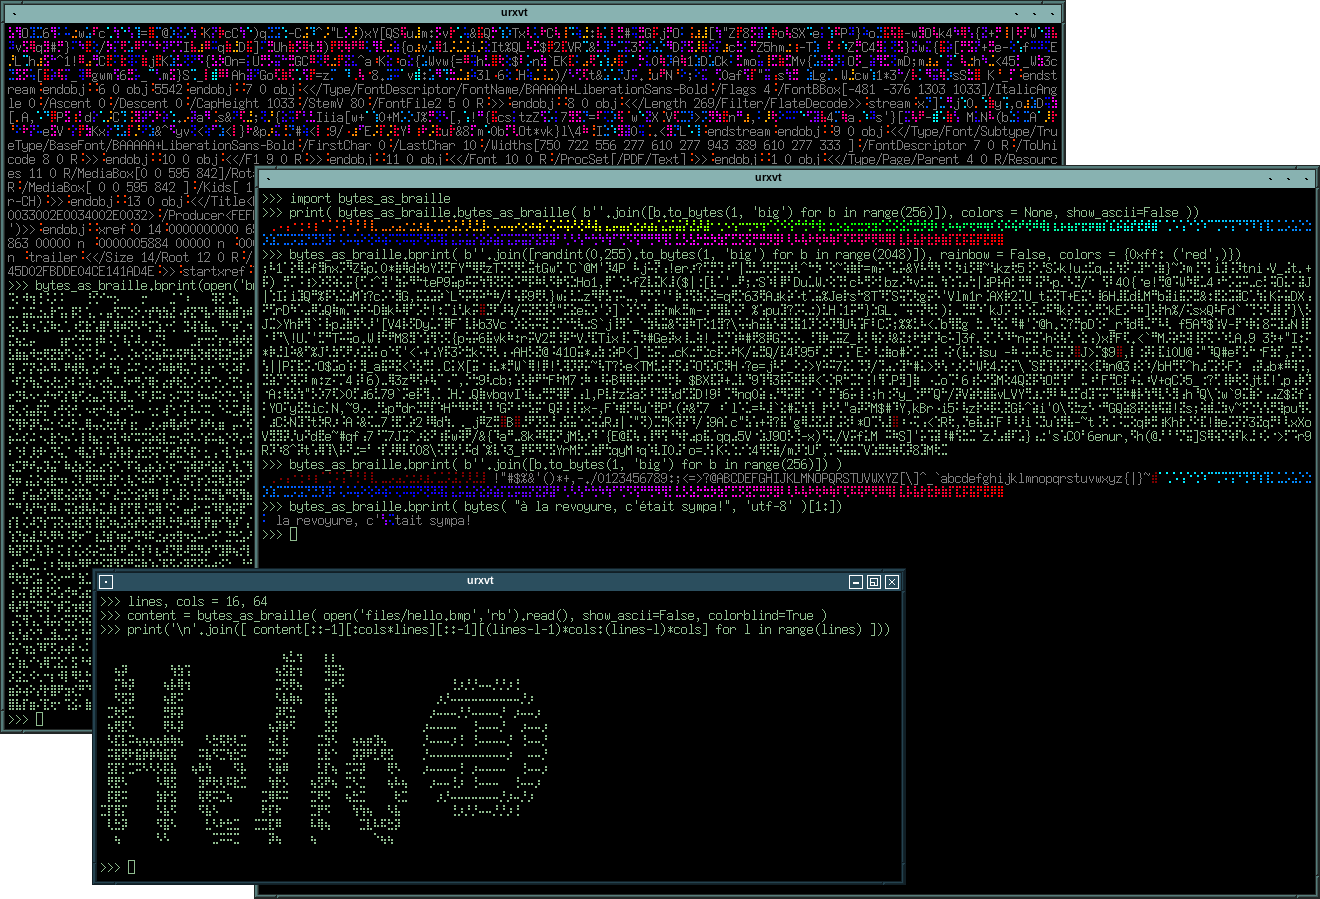
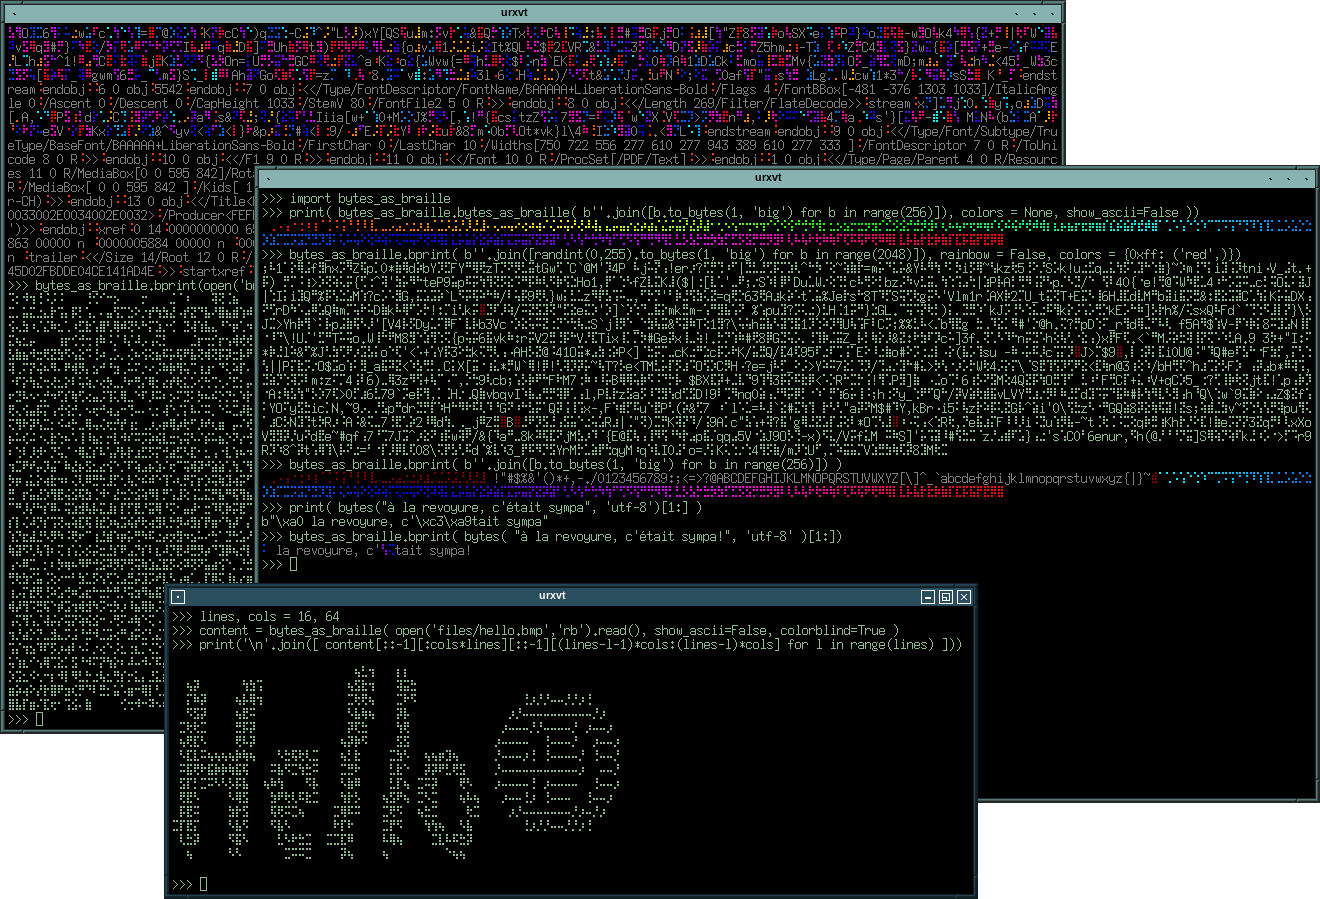
typos, better screenshot, reference to binary clock

Changed region(s): [[0.0621, 0.5606, 1.0, 1.0], [0.497, 0.5606, 0.528, 0.5918]]

diff --git a/README.md b/README.md
@@ -1,10 +1,8 @@
-Since Python3, I have been working with byestrings that *sometimes* decode as ASCII or UTF strings ; the environment this lives in is mxied, as in some strings are expected to decode while some are are expected to not decode.
+Since Python3, I have been working with byestrings that *sometimes* decode as ASCII or UTF strings ; the environment this lives in is "mixed", as some strings are expected to decode while some are are expected to not decode.
 
 Displaying those string as-is is not convenient, as quite a few unicode symbols will not render correctly : since I work with all sort of human languages these are frequent so I wrote a very short function that would try to decode my bytestring and return "__bytes__" if it would't decode. This, however, was not convenient because it made it impossible to distinguish undecodable bytestrings from one another, and information was lost (because I couldn't get the original bytestring again). Also, using the default Python mechanims to display those bytes was cumbersome, because each byte is displayed as 4 characters (such as \xc0), so the display quickly becomes quite messy and hard to read, even more so when ASCII-decodable characters are displayed as such.
 
-It struck me that Braille symbols were a pretty workaround to this problem : although they are not ordered "logically" - actually they are, but based on historic grounds the first set comprises 6-dots symbols (U+2800 … U+283F), followed by the 8-dots symbols (U+2840 … T+28FF) and the order is well.. rather unconvenient to a lambda user like me.
-
-The traditional cell numbering so:
+It struck me that Braille symbols were a pretty workaround to this problem : although they are not ordered "logically" - actually they are, but based on historic grounds the first set comprises 6-dots symbols (U+2800 … U+283F), followed by the 8-dots symbols (U+2840 … T+28FF) and the order is well.. rather unconvenient to someone who is not familiar with the original 6-dot cell:
 
 ![Braille 8-dot Cell Numbering](/files/Braille8dotCellNumbering.svg)
 
@@ -12,13 +10,13 @@ It is worth noting the following facts:
 
 * Braille is somehow a precursor of unicode, as it uses the ⠼ symbol as a prefix to say *what follows is not a letter but a number* ; however and unlike unicode, this can prefix a *series* of symbols
 * There is not *one* Braille : every country or language has its own Braille dialect
-* Braille users make heavy use of "compression", defining aliases and shorthand often per-document in order to make reading faster
+* Braille users make heavy use of "compression", defining aliases and shorthand often per-document in order to make reading faster (somehow off-topic)
 
 The first thing I did was rename them as such (for big-endian representation):
 
 ![Big-endian numbering](/files/Braille8dotCellNumbering_bigendian.svg)
 
-Then came quite a bit of work re-ordering the cells based not on their unicode number, but their new byte value. After updating my decode function, I'm now very happy with the result:
+Then came quite a bit of work re-ordering the cells based not on their unicode number, but their new byte value. With a little practice, it becomes instinctive to read the actual hex on base-10 value (it's basically like a binary clock).
 
 ![Braille for bytes](/files/bytes_as_braille.png)
 
